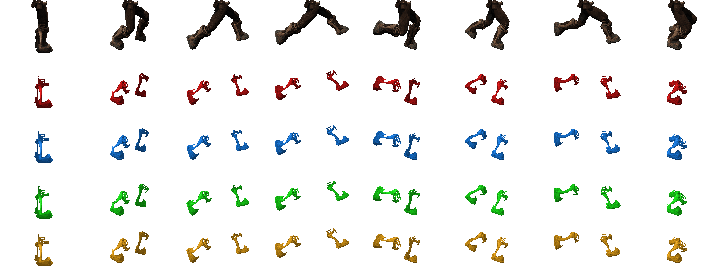
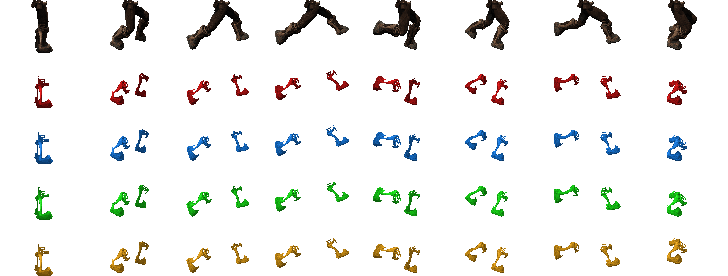
+ implemented basic team colors mechanism + fixed legs LQ spritesheet

diff --git a/Unreal-Match/Unreal-Match/Resources/Scripts/Game/Entities/Components/PlayerDrawLQ.Component.ts b/Unreal-Match/Unreal-Match/Resources/Scripts/Game/Entities/Components/PlayerDrawLQ.Component.ts
@@ -2,10 +2,39 @@
 import Size = require('Resources/Scripts/Game/Entities/Primitives/Size.Primitive');
 import Point = require('Resources/Scripts/Game/Entities/Primitives/Point.Primitive');
 import Player = require('Resources/Scripts/Game/Entities/Objects/Player.Object');
+import Team = require('Resources/Scripts/Game/Enums/Team.Enum');
 
 class PlayerDrawLQComponent extends PlayerDrawComponent {
     constructor(object) {
         super(object);
+
+        switch ((<Player>(this.Object)).Team) {
+            case Team.None: {
+                this.TeamColorLegsYOffset = 0;
+                break;
+            }
+            case Team.Red: {
+                // 2px Y splitter in LQ
+                this.TeamColorLegsYOffset = this.OriginLegsSize.Height + 2;
+                break;
+            }
+            case Team.Blue: {
+                // 2px Y splitter in LQ
+                this.TeamColorLegsYOffset = (this.OriginLegsSize.Height + 2) * 2;
+                break;
+            }
+            case Team.Green: {
+                // 2px Y splitter in LQ
+                this.TeamColorLegsYOffset = (this.OriginLegsSize.Height + 2) * 3;
+                break;
+            }
+            case Team.Gold: {
+                // 2px Y splitter in LQ
+                this.TeamColorLegsYOffset = (this.OriginLegsSize.Height + 2) * 4;
+                break;
+            }
+        }
+
     }
 
     /** Draws player */
@@ -30,13 +59,26 @@ class PlayerDrawLQComponent extends PlayerDrawComponent {
             // sprite
             0,
             0,
-            364 / 4,
-            213 / 4,
+            this.OriginLegsSize.Width,  // 364 / 4,
+            this.OriginLegsSize.Height, //213 / 4,
             // canvas
             legsStartPointSC.X,
             legsStartPointSC.Y,
-            364 / 4,
-            213 / 4)
+            this.OriginLegsSize.Width,  // 364 / 4,
+            this.OriginLegsSize.Height) //213 / 4
+
+        // blend team colors
+        this.Context.drawImage(this.LegsSprite,
+            // sprite
+            0,
+            this.TeamColorLegsYOffset,
+            this.OriginLegsSize.Width,
+            this.OriginLegsSize.Height,
+            // canvas
+            legsStartPointSC.X,
+            legsStartPointSC.Y,
+            this.OriginLegsSize.Width,
+            this.OriginLegsSize.Height)
     }
 
     private DrawHead() {

diff --git a/Unreal-Match/Unreal-Match/Resources/Scripts/Game/Entities/Components/PlayerDraw.Component.ts b/Unreal-Match/Unreal-Match/Resources/Scripts/Game/Entities/Components/PlayerDraw.Component.ts
@@ -24,6 +24,15 @@ abstract class PlayerDrawComponent extends Component {
     /** Maximum weapon size in origin resolution */
     public OriginWeaponSize: Size;
 
+    /** Y offset to team color on head sprite */
+    public TeamColorHeadYOffset: number;
+    /** Y offset to team color on hand sprite */
+    public TeamColorHandYOffset: number;
+    /** Y offset to team color on body sprite */
+    public TeamColorBodyYOffset: number;
+    /** Y offset to team color on legs sprite */
+    public TeamColorLegsYOffset: number;
+
     /** Relative position of neck socket on head sprite */
     public NeckSocketOnHead: NormalizedVector;
     /** Relative position of neck socket on body sprite */
@@ -98,7 +107,7 @@ abstract class PlayerDrawComponent extends Component {
         this.OriginHandsSize = new Size(34, 14);    // after that 2px splitter by y
         this.OriginLegsSize = new Size(91, 54);     // after that 2px splitter by y
         this.OriginWeaponSize = new Size(55, 20);   // after that 2px splitter by y
-        
+
         this.NeckSocketOnHead = new NormalizedVector(0.5, 0.6);
         this.NeckSocketOnBody = new NormalizedVector(0.5, 0.77);
         this.ShoulderSocketOnHand = new NormalizedVector(0.1, 0.19);

diff --git a/Unreal-Match/Unreal-Match/Resources/Scripts/Game/Entities/Objects/Player.Object.ts b/Unreal-Match/Unreal-Match/Resources/Scripts/Game/Entities/Objects/Player.Object.ts
@@ -27,6 +27,7 @@ class Player extends GameObject {
     constructor(id: number, position: Point, team: Team, character: Character) {
         super(id, position);
         this.Fraction = Player.GetFraction(character);
+        this.Team = team;
 
         var game = <GameClient>window['game'];
         this.AddComponent(game.Configuration.VideoMode === VideoMode.LQ ? new PlayerDrawLQComponent(this) : new PlayerDrawHQComponent(this));
